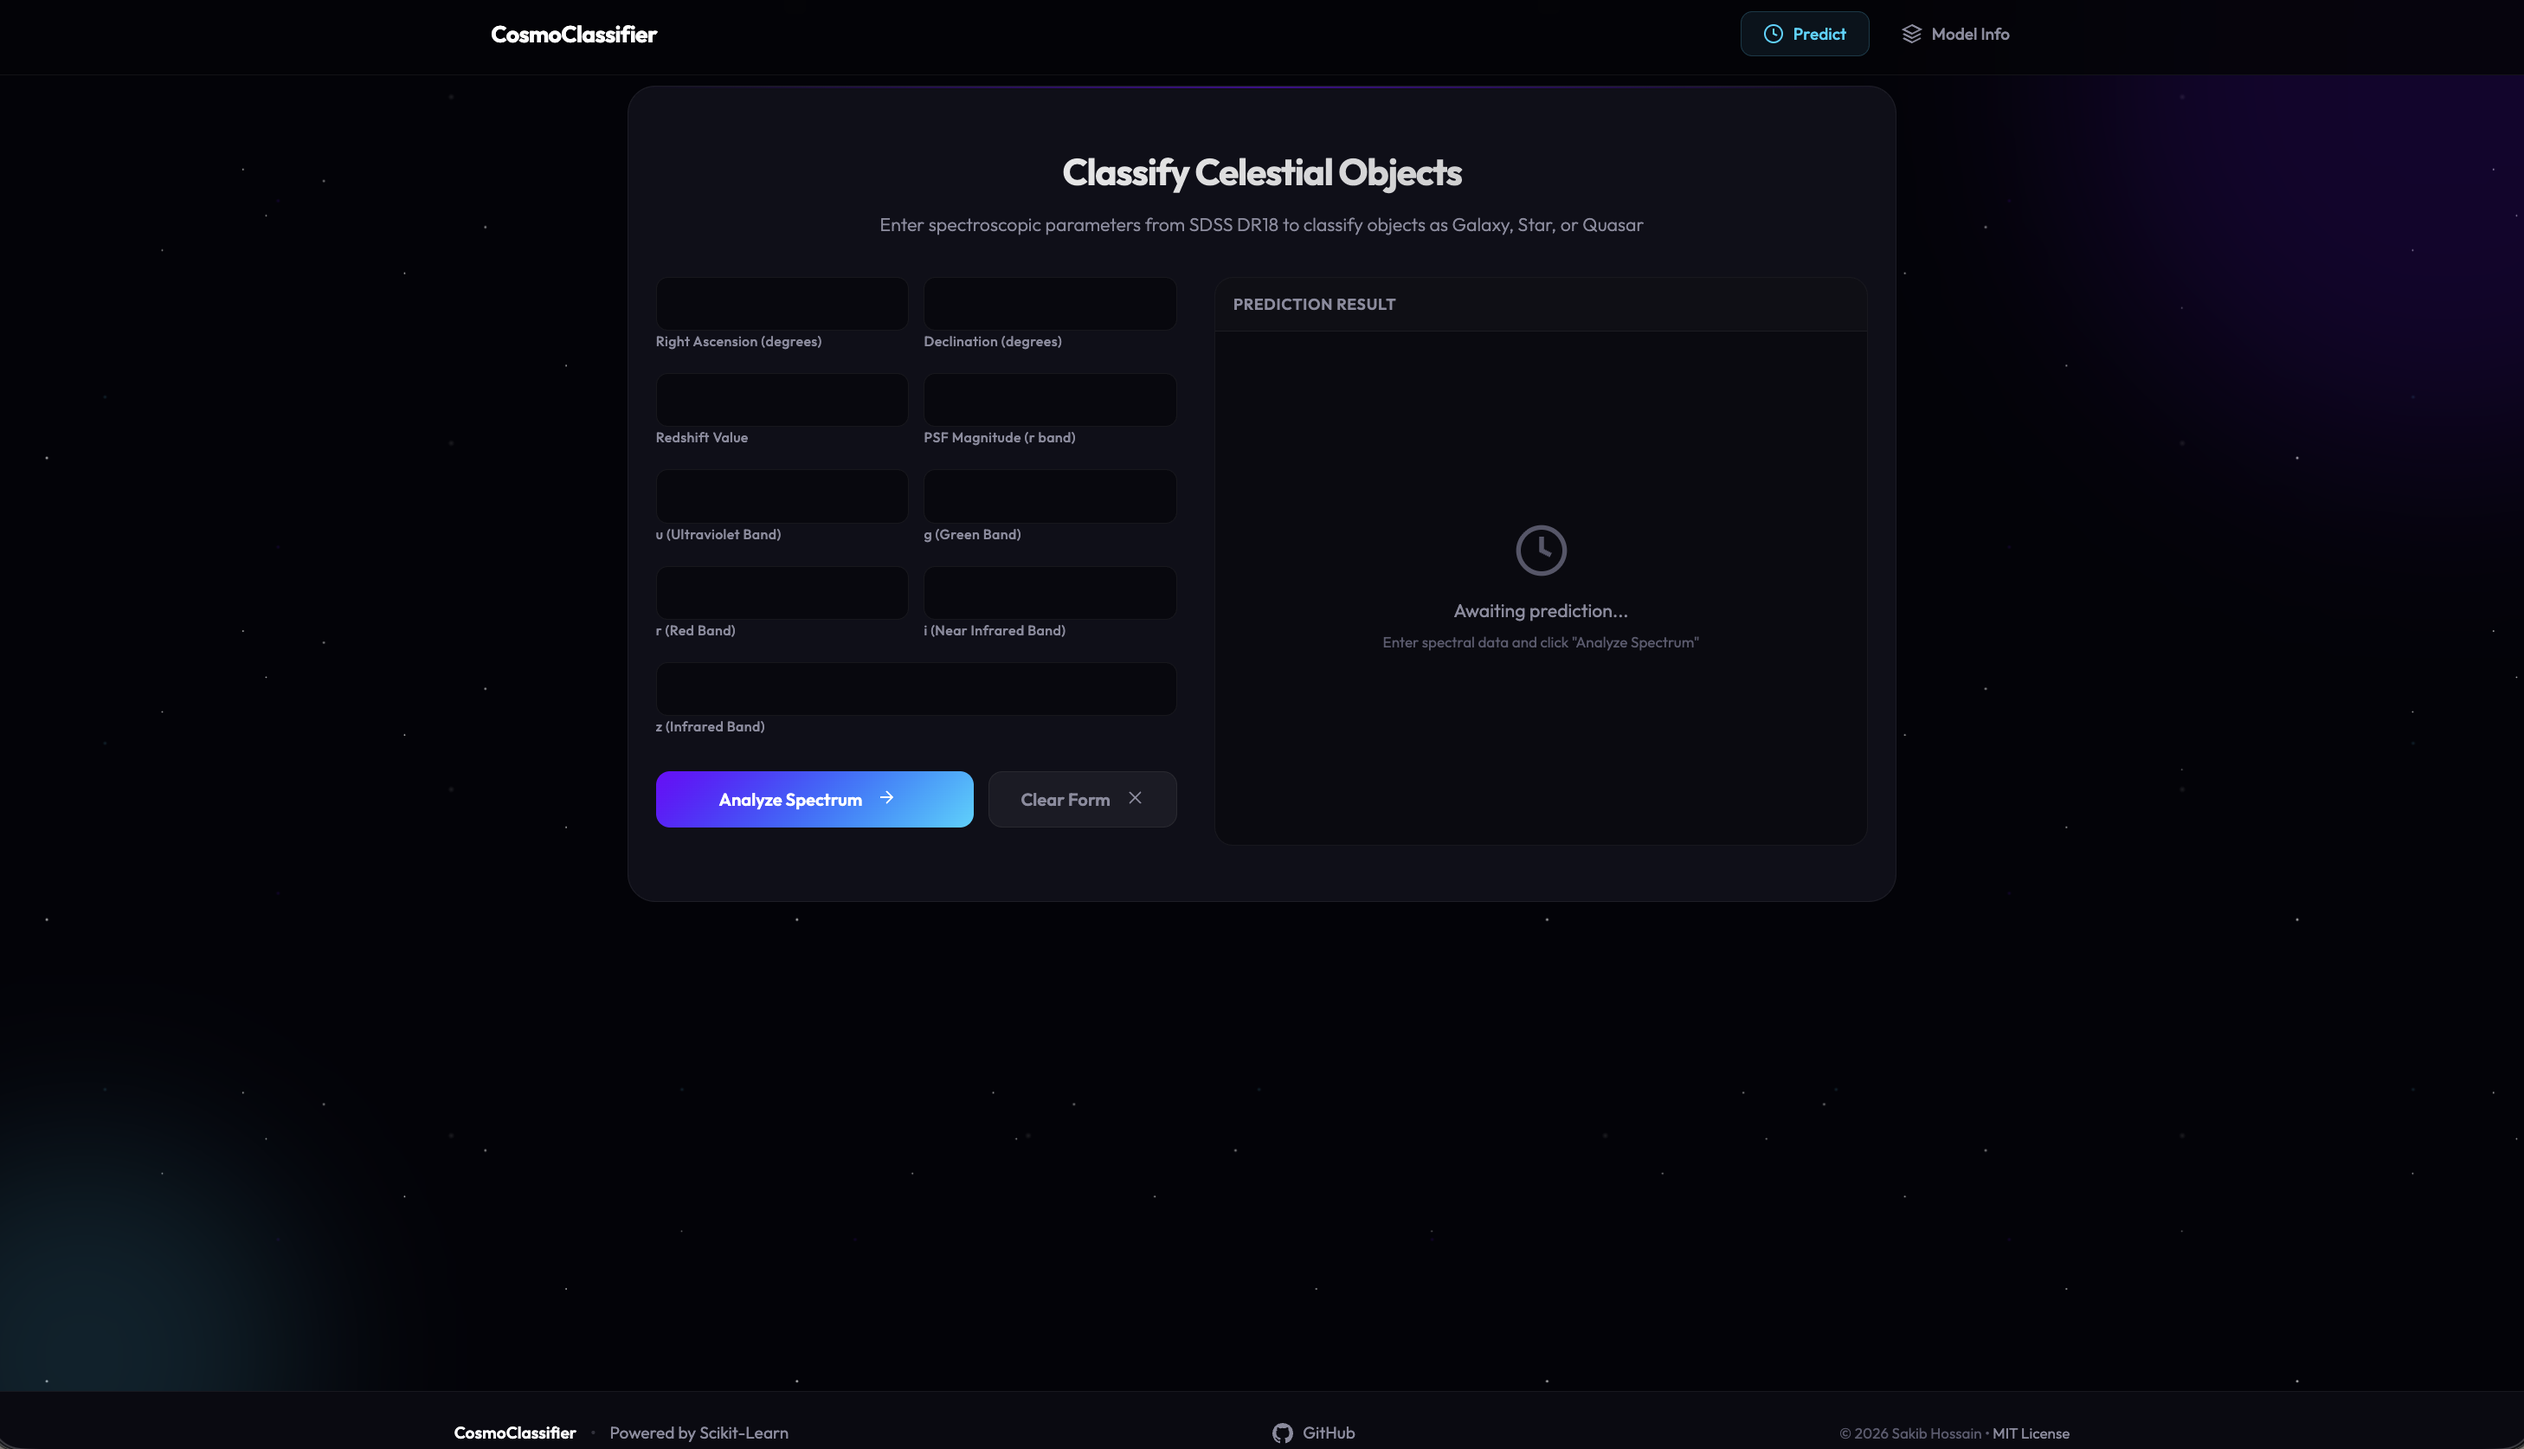
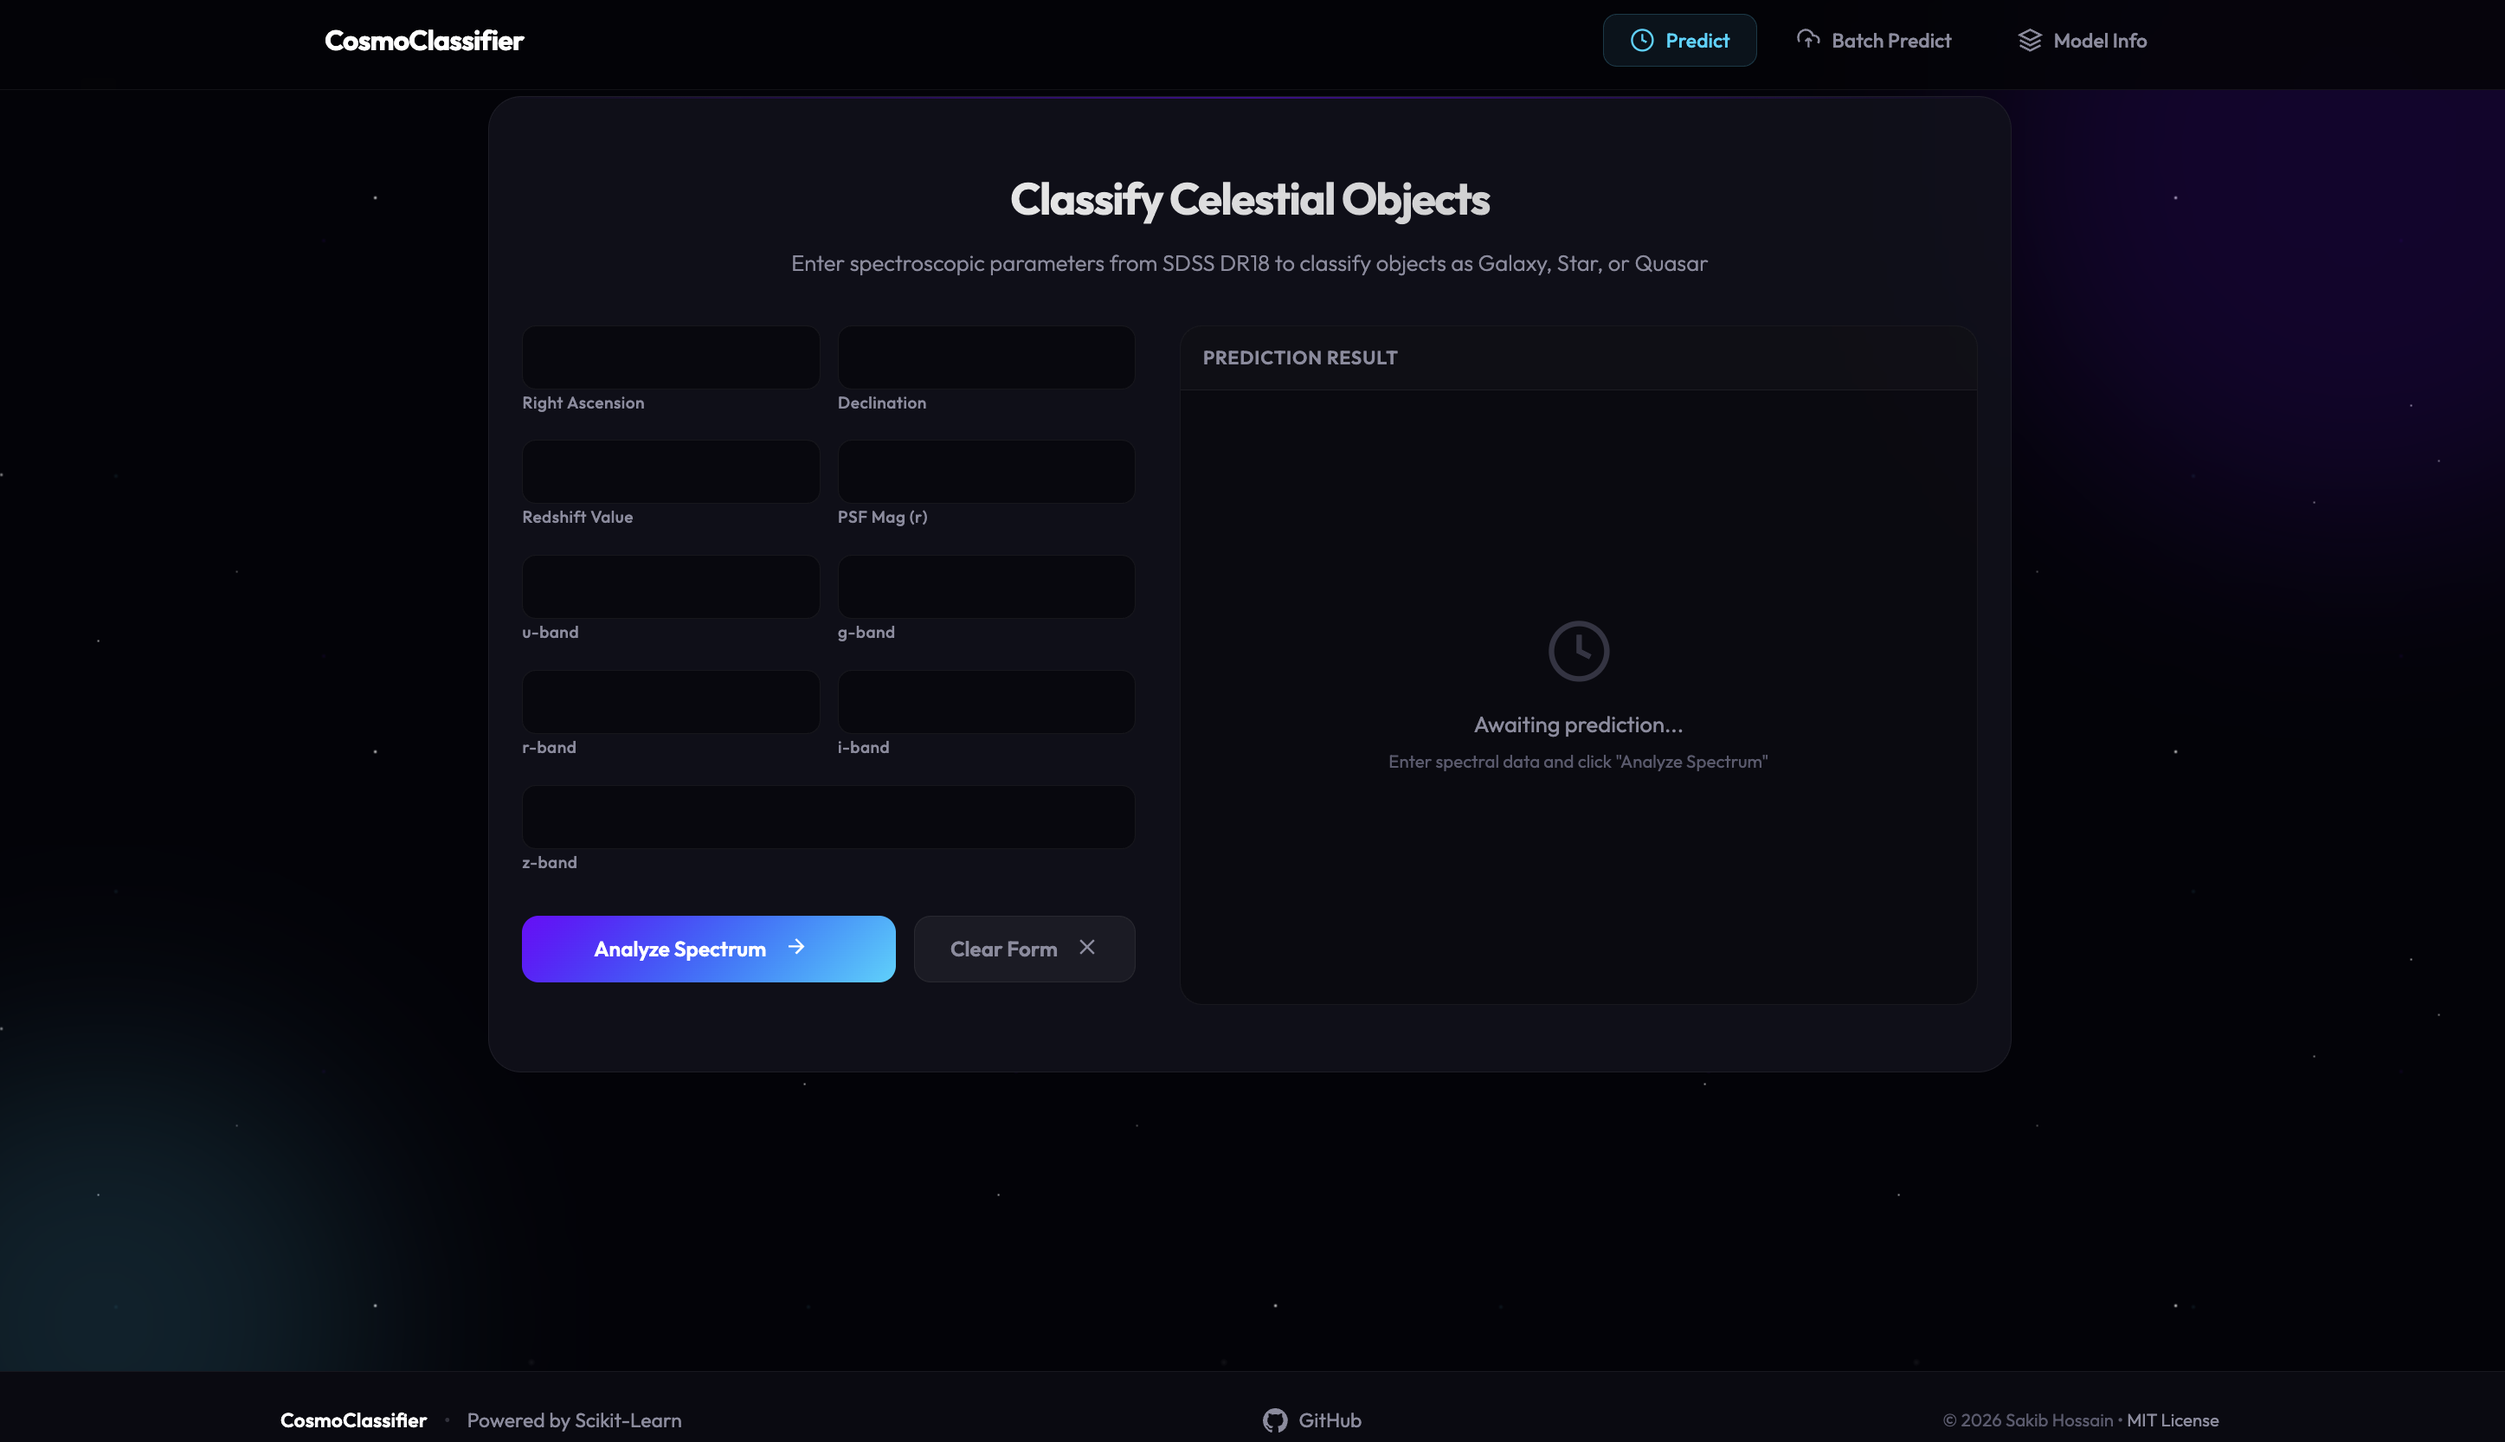
Update new screenshots and `README.md`

diff --git a/README.md b/README.md
@@ -21,7 +21,7 @@ This project simplifies that complexity—transforming high-dimensional SDSS dat
 
 ## 📸 Screenshots
 ![Home Page](screenshots/ss_home.png)
-![Prediction](screenshots/ss_filled.png)
+![Prediction](screenshots/ss_batch.png)
 
 ---
 
